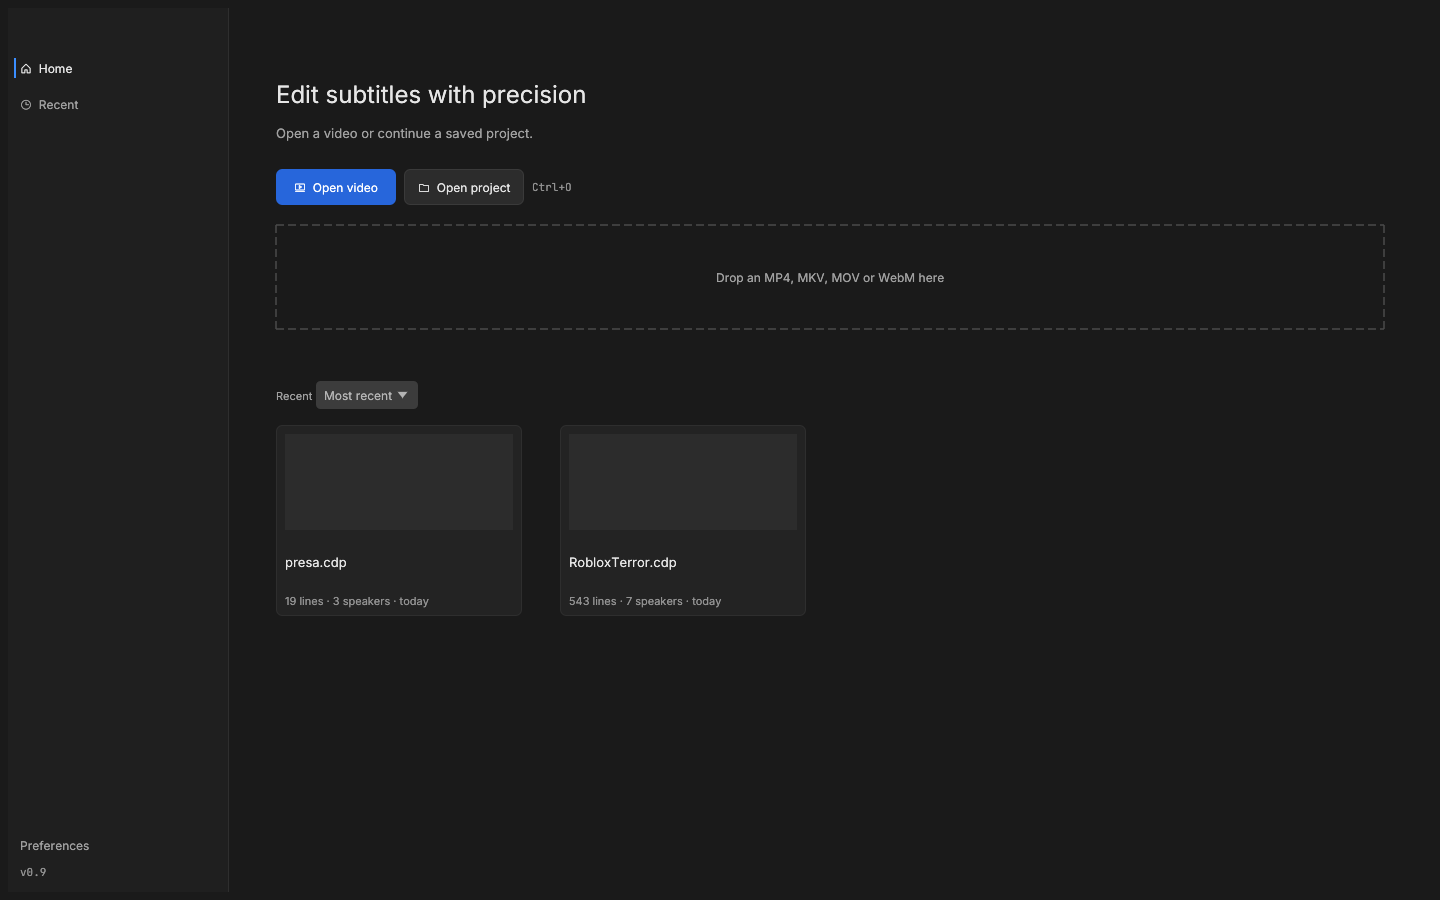
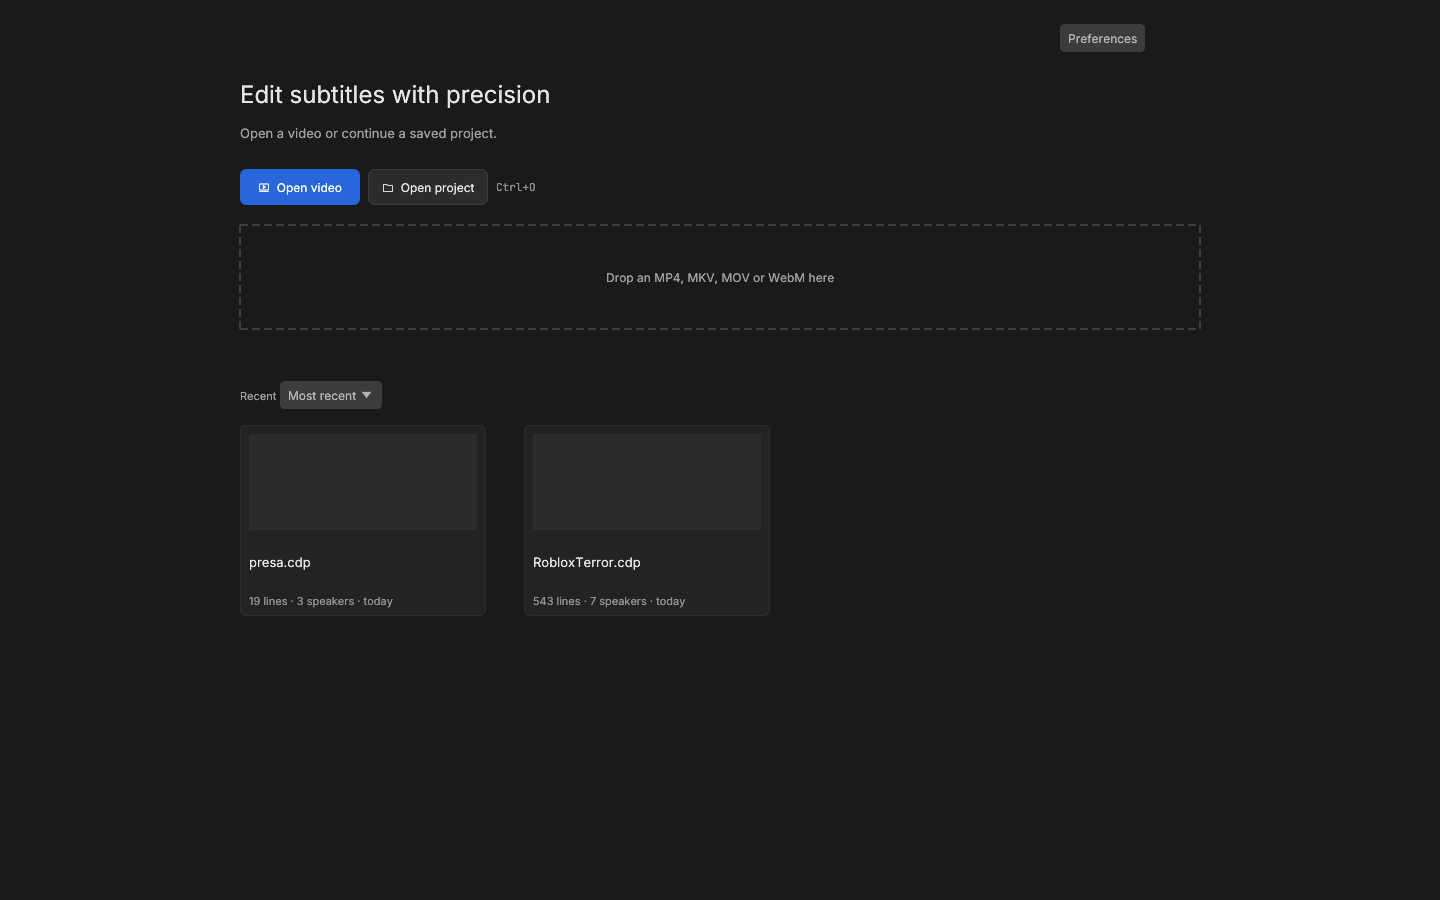
fix: cabecera centrada en vertical y menús espaciados, sin sidebar
horizontal_centered, huecos de 12/16 px y menús de 24 px siguiendo la referencia de FilmCraft. Preferences pasa a la vista principal. El título del proyecto se centra en la ventana.

diff --git a/crates/app/src/ui/inicio.rs b/crates/app/src/ui/inicio.rs
@@ -21,15 +21,25 @@ pub fn mostrar(
     let (rect, _) = ui.allocate_exact_size(ui.available_size(), Sense::hover());
     ui.painter().rect_filled(rect, 0.0, tema::FONDO);
 
-    let ancho_riel = 220.0;
-    let riel = egui::Rect::from_min_size(rect.min, Vec2::new(ancho_riel, rect.height()));
-    // Margen lateral real: sin él el título y las tarjetas se pegan al riel.
+    // Sin riel: una sola columna centrada, con margen a los lados.
+    let ancho_columna = (rect.width() - tema::ESP_48 * 2.0).clamp(320.0, 960.0);
+    let centro_x = rect.center().x;
     let contenido = egui::Rect::from_min_max(
-        egui::pos2(rect.min.x + ancho_riel + tema::ESP_48, rect.min.y),
-        egui::pos2(rect.max.x - tema::ESP_48, rect.max.y),
+        egui::pos2(centro_x - ancho_columna / 2.0, rect.min.y),
+        egui::pos2(centro_x + ancho_columna / 2.0, rect.max.y),
     );
 
-    let abrir_ajustes = riel_de_navegacion(ui, riel, textos);
+    // Preferences vive en la vista principal, arriba a la derecha.
+    let mut abrir_ajustes = false;
+    let zona_ajustes = egui::Rect::from_min_max(
+        egui::pos2(contenido.max.x - 140.0, contenido.min.y + tema::ESP_16),
+        egui::pos2(contenido.max.x, contenido.min.y + tema::ESP_48),
+    );
+    ui.scope_builder(egui::UiBuilder::new().max_rect(zona_ajustes), |ui| {
+        if ui.button(textos.ajustes).clicked() {
+            abrir_ajustes = true;
+        }
+    });
 
     let mut intencion = None;
     ui.scope_builder(egui::UiBuilder::new().max_rect(contenido), |ui| {
@@ -167,74 +177,6 @@ pub fn mostrar(
 
     (intencion, abrir_ajustes)
 }
-
-fn riel_de_navegacion(ui: &mut egui::Ui, riel: egui::Rect, textos: &Textos) -> bool {
-    let painter = ui.painter();
-    painter.rect_filled(riel, 0.0, tema::RIEL);
-    painter.line_segment(
-        [
-            egui::pos2(riel.max.x, riel.min.y),
-            egui::pos2(riel.max.x, riel.max.y),
-        ],
-        Stroke::new(1.0_f32, tema::BORDE),
-    );
-
-    let mut abrir_ajustes = false;
-    ui.scope_builder(
-        egui::UiBuilder::new().max_rect(riel.shrink(tema::ESP_12)),
-        |ui| {
-            ui.vertical(|ui| {
-                ui.add_space(tema::ESP_32);
-                for (etiqueta, icono, activo) in [
-                    (textos.inicio, Icono::Inicio2, true),
-                    (textos.recientes, Icono::Reloj, false),
-                ] {
-                    let respuesta = ui.add(
-                        egui::Button::new(
-                            RichText::new(format!("{}  {etiqueta}", kit::glifo(icono)))
-                                .font(tema::fuente(Estilo::Base))
-                                .color(if activo { tema::TEXTO } else { tema::TEXTO_2 }),
-                        )
-                        .frame(false)
-                        .min_size(Vec2::new(ui.available_width(), tema::ALTO_NAV)),
-                    );
-                    if activo {
-                        let barra = egui::Rect::from_min_max(
-                            egui::pos2(respuesta.rect.min.x - 6.0, respuesta.rect.min.y + 6.0),
-                            egui::pos2(respuesta.rect.min.x - 4.0, respuesta.rect.max.y - 6.0),
-                        );
-                        ui.painter().rect_filled(barra, 0.0, tema::ACENTO);
-                    }
-                }
-                ui.with_layout(egui::Layout::bottom_up(egui::Align::LEFT), |ui| {
-                    // En bottom_up el primer widget va abajo del todo: la
-                    // versión queda al pie y Ajustes justo encima.
-                    ui.label(
-                        RichText::new("v0.9")
-                            .font(tema::fuente(Estilo::Mono))
-                            .color(tema::TEXTO_3),
-                    );
-                    if ui
-                        .add(
-                            egui::Button::new(
-                                RichText::new(textos.ajustes)
-                                    .font(tema::fuente(Estilo::Base))
-                                    .color(tema::TEXTO_2),
-                            )
-                            .frame(false)
-                            .min_size(Vec2::new(ui.available_width(), tema::ALTO_NAV)),
-                        )
-                        .clicked()
-                    {
-                        abrir_ajustes = true;
-                    }
-                });
-            });
-        },
-    );
-    abrir_ajustes
-}
-
 fn zona_de_arrastre(ui: &mut egui::Ui, textos: &Textos) {
     let (rect, _) = ui.allocate_exact_size(Vec2::new(ui.available_width(), 104.0), Sense::hover());
     let sobre = ui.ctx().input(|entrada| {

diff --git a/crates/app/src/ui/chrome.rs b/crates/app/src/ui/chrome.rs
@@ -39,8 +39,10 @@ pub fn mostrar(
         .exact_height(tema::ALTO_CABECERA)
         .frame(marco)
         .show(ctx, |ui| {
-            ui.horizontal(|ui| {
-                ui.spacing_mut().item_spacing.x = tema::ESP_8;
+            // Align::Center: la marca, los menús y los botones comparten el
+            // centro vertical de la cabecera (FilmCraft header.rs).
+            ui.horizontal_centered(|ui| {
+                ui.spacing_mut().item_spacing.x = tema::ESP_12;
 
                 monograma(ui);
                 ui.label(
@@ -51,13 +53,15 @@ pub fn mostrar(
                         .color(tema::TEXTO),
                 );
 
+                ui.add_space(tema::ESP_16);
                 elegido = menu::mostrar(ui, estado.en_inicio, textos, atajos);
+                ui.add_space(tema::ESP_16);
 
                 // Reservar primero el sitio de los controles: si la franja de
                 // arrastre toma todo el ancho, los botones se salen del rect.
                 let ancho_botones = 3.0 * tema::ANCHO_BOTON_VENTANA;
                 let ancho_arrastre = (ui.available_width() - ancho_botones).max(4.0);
-                let (franja, respuesta) = ui.allocate_exact_size(
+                let (_franja, respuesta) = ui.allocate_exact_size(
                     egui::vec2(ancho_arrastre, tema::ALTO_CABECERA - 8.0),
                     egui::Sense::click_and_drag(),
                 );
@@ -75,8 +79,11 @@ pub fn mostrar(
                     } else {
                         format!("{} · {}", tema::acortar(proyecto, 40), textos.guardado)
                     };
+                    // Centro real de la ventana, no de la franja de arrastre:
+                    // la franja empieza tras los menús y acababa desplazando
+                    // el título hacia la derecha.
                     ui.painter().text(
-                        franja.center(),
+                        ui.max_rect().center(),
                         egui::Align2::CENTER_CENTER,
                         texto,
                         tema::fuente(Estilo::Pequeno),

diff --git a/crates/app/examples/capturas.rs b/crates/app/examples/capturas.rs
@@ -177,6 +177,48 @@ fn main() {
     );
 
     if fase == "diagnostico" {
+        let estado = (
+            inicio::nuevo(vec![reciente("RobloxTerror.cdp", 543, 7)], None),
+            false,
+        );
+        let mut h = Harness::builder()
+            .wgpu()
+            .with_size(egui::vec2(1914.0, 1015.0))
+            .build_state(
+                |ctx, (inicio, abrir): &mut (EstadoInicio, bool)| {
+                    let abrir_chrome = rod_app::ui::chrome::mostrar(
+                        ctx,
+                        &rod_app::textos::EN,
+                        &rod_app::comandos::MapaAtajos::por_defecto(),
+                        rod_app::ui::chrome::EstadoCabecera {
+                            en_inicio: true,
+                            proyecto: Some("RobloxTerror.cdp"),
+                            sucio: false,
+                        },
+                    );
+                    if abrir_chrome.is_some() {
+                        *abrir = true;
+                    }
+                    egui::CentralPanel::default()
+                        .frame(rod_app::ui::tema::panel(rod_app::ui::tema::FONDO))
+                        .show(ctx, |ui| {
+                            let (_, abrir_ajustes) = rod_app::ui::inicio::mostrar(
+                                ui,
+                                inicio,
+                                &rod_app::textos::EN,
+                                &mut rod_app::preferencias::Preferencias::default(),
+                            );
+                            if abrir_ajustes {
+                                *abrir = true;
+                            }
+                        });
+                },
+                estado,
+            );
+        rod_app::ui::tema::aplicar(&h.ctx);
+        h.run();
+        guardar(&mut h, "diagnostico-cabecera-1914");
+
         capturar(
             "diagnostico-inicio-1914",
             1914.0,

diff --git a/crates/app/src/menu.rs b/crates/app/src/menu.rs
@@ -96,15 +96,17 @@ pub fn mostrar(
     use crate::ui::tema;
 
     let mut elegido = None;
-    ui.horizontal(|ui| {
-        ui.spacing_mut().item_spacing.x = tema::ESP_2;
+    ui.with_layout(egui::Layout::left_to_right(egui::Align::Center), |ui| {
+        ui.spacing_mut().item_spacing.x = tema::ESP_12;
         for seccion in SECCIONES {
             let nombre = nombre_seccion(seccion, textos);
             let etiqueta = egui::RichText::new(nombre)
                 .font(tema::fuente(tema::Estilo::Pequeno))
                 .color(tema::TEXTO_MENU);
             let _ = egui::containers::menu::MenuButton::from_button(
-                egui::Button::new(etiqueta).frame(false),
+                egui::Button::new(etiqueta)
+                    .frame(false)
+                    .min_size(egui::vec2(0.0, 24.0)),
             )
             .ui(ui, |ui| {
                 ui.set_min_width(226.0);

diff --git a/BITACORA.md b/BITACORA.md
@@ -13,6 +13,11 @@
 - kittest no ejecuta el `PaintCallback` de mpv: las capturas finales del editor
   son headless con el monitor vacío. El «antes» real con video quedó en
   `docs/checklists/rediseno/antes-editor-1440.png`.
+- Cabecera: el usuario aclaró que el problema era el centrado **vertical**, no
+  el horizontal. Se usa `horizontal_centered` y la referencia de FilmCraft
+  (`storytold/filmcraft`, `crates/ui-egui/src/header.rs`): menú en
+  `Align::Center`, 12 px entre menús y 16 px entre marca y menú. La sidebar se
+  retiró y Preferences pasó a la vista principal.
 - Ajustes de layout tras captura del usuario: margen lateral de 48 px en el
   contenido, rejilla con `horizontal_wrapped` (el `Grid` apilaba las tarjetas
   en la app real), más aire entre bloques y Ajustes al pie sobre la versión.
